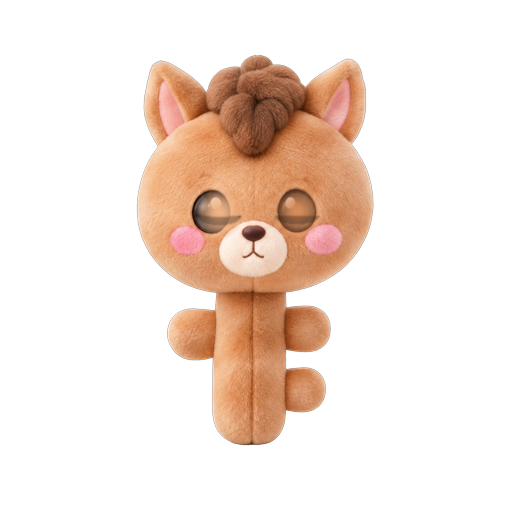
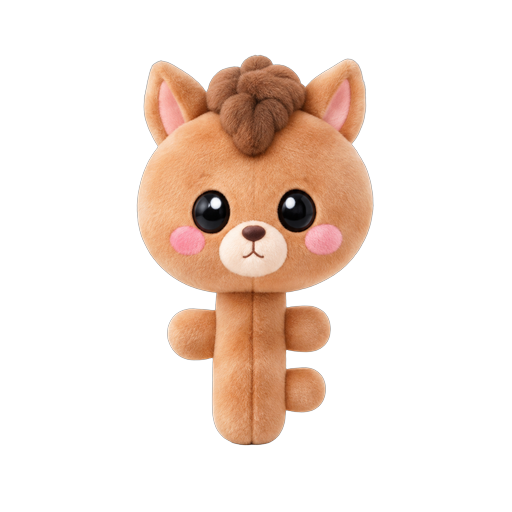
fix: kid-safe horse — blink/react/sleepy use canon front (no zombie eyes)
Overwrite blink/react/sleepy PNGs with the approved transparent front so kids
never see empty/zombie eyes. Point those frame src attrs at the canon front path.
Keep away = back. Squish CSS untouched. Do not touch binding.js.

Changed region(s): [[0.5312, 0.3438, 0.625, 0.4688], [0.375, 0.375, 0.4688, 0.4688]]

diff --git a/src/pages.js b/src/pages.js
@@ -30,9 +30,9 @@ function petMarkup({ waving = false, away = false, lonely = false } = {}) {
       <button type="button" class="pet-hit" aria-label="${alt}">
         <span class="pet-motion">
           <img class="pet-frame is-show" data-frame="canon" src="/mascot-horse-512.png" width="220" height="220" alt="${alt}" decoding="async" draggable="false">
-          <img class="pet-frame" data-frame="blink" src="/mascot-horse-blink-512.png" width="220" height="220" alt="" aria-hidden="true" decoding="async" draggable="false">
-          <img class="pet-frame" data-frame="react" src="/mascot-horse-react-512.png" width="220" height="220" alt="" aria-hidden="true" decoding="async" draggable="false">
-          <img class="pet-frame" data-frame="sleepy" src="/mascot-horse-sleepy-512.png" width="220" height="220" alt="" aria-hidden="true" decoding="async" draggable="false">
+          <img class="pet-frame" data-frame="blink" src="/mascot-horse-512.png" width="220" height="220" alt="" aria-hidden="true" decoding="async" draggable="false">
+          <img class="pet-frame" data-frame="react" src="/mascot-horse-512.png" width="220" height="220" alt="" aria-hidden="true" decoding="async" draggable="false">
+          <img class="pet-frame" data-frame="sleepy" src="/mascot-horse-512.png" width="220" height="220" alt="" aria-hidden="true" decoding="async" draggable="false">
         </span>
       </button>
     </div>`;
